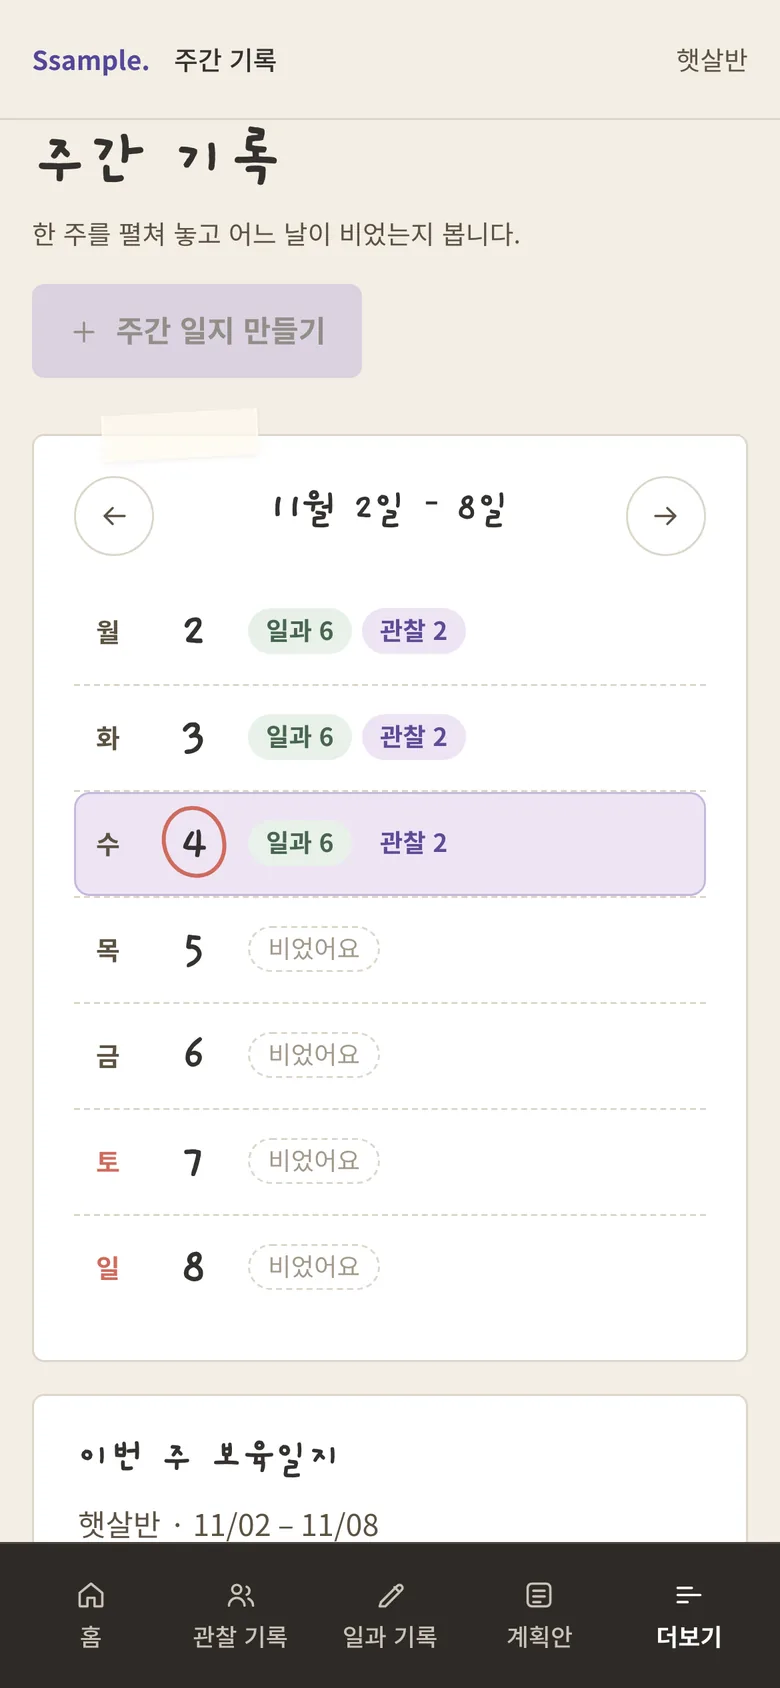
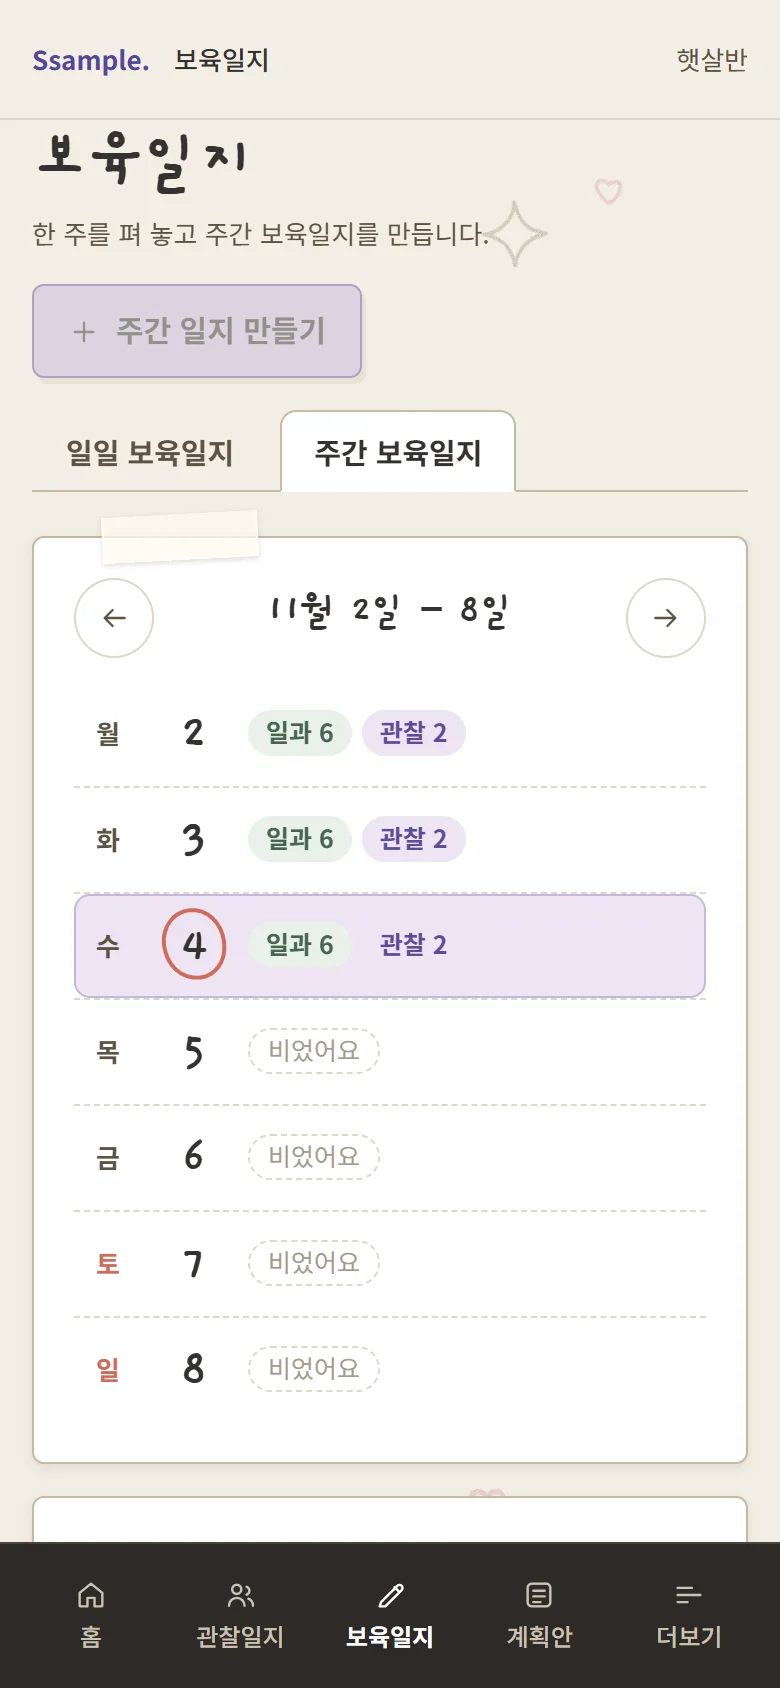
docs: [수린] 휴대폰 캡처 3장을 「보육일지」 메뉴로 합친 뒤 화면으로 바꾼다
- phone-records · phone-routines · phone-weekly — #412 로 메뉴가 관찰일지 · 보육일지로 합쳐지기 전 화면이었다
- 로컬 가명 계정(햇살반 · 11/02~11/04 일과 6 · 관찰 2)으로 390×844 @2x 에서 다시 찍었다. 크기는 그대로 780×1688
- README 캡션 · 랜딩 alt 를 보육일지 · 일일 / 주간으로

diff --git a/frontend/components/landing/InteractiveLanding.tsx b/frontend/components/landing/InteractiveLanding.tsx
@@ -134,7 +134,7 @@ export default function InteractiveLanding() {
             <figure className="hd-phone" style={{ margin: "0" }}>
               <Image
                 src="/landing/v2/phone-routines.webp"
-                alt="휴대폰에서 연 쌤플 일과 기록 화면. 달력에서 11월 4일을 골랐다."
+                alt="휴대폰에서 연 쌤플 보육일지 화면. 달력에서 11월 4일을 골랐다."
                 width={780}
                 height={1688}
                 sizes="210px"
@@ -810,7 +810,7 @@ export default function InteractiveLanding() {
             <figure>
               <Image
                 src="/landing/v2/phone-routines.webp"
-                alt="휴대폰의 일과 기록 화면"
+                alt="휴대폰의 일일 보육일지 화면"
                 width={780}
                 height={1688}
                 sizes="240px"
@@ -819,7 +819,7 @@ export default function InteractiveLanding() {
             <figure>
               <Image
                 src="/landing/v2/phone-weekly.webp"
-                alt="휴대폰의 주간 기록 화면"
+                alt="휴대폰의 주간 보육일지 화면"
                 width={780}
                 height={1688}
                 sizes="240px"

diff --git a/README.md b/README.md
@@ -36,8 +36,8 @@ AI 가 없는 사실을 쓰면 문서 조작이다([ADR-007](docs/adr/007-spec-o
 <table>
 <tr>
 <td align="center"><img src="frontend/public/landing/v2/phone-records.webp" width="240" alt="관찰 기록"/><br/><sub>관찰 기록</sub></td>
-<td align="center"><img src="frontend/public/landing/v2/phone-routines.webp" width="240" alt="일과 기록"/><br/><sub>일과 기록</sub></td>
-<td align="center"><img src="frontend/public/landing/v2/phone-weekly.webp" width="240" alt="주간 기록"/><br/><sub>주간 기록</sub></td>
+<td align="center"><img src="frontend/public/landing/v2/phone-routines.webp" width="240" alt="보육일지 · 일일"/><br/><sub>보육일지 · 일일</sub></td>
+<td align="center"><img src="frontend/public/landing/v2/phone-weekly.webp" width="240" alt="보육일지 · 주간"/><br/><sub>보육일지 · 주간</sub></td>
 </tr>
 </table>
 
